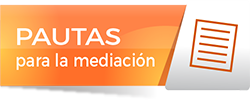
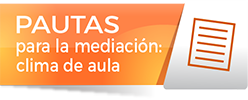
Cambios en Apoyos para el aula

diff --git a/src/Components/ApoyoClimaAula.jsx b/src/Components/ApoyoClimaAula.jsx
@@ -21,12 +21,12 @@ const ApoyoClimaAula = (props) => {
         <div id="botones-aula" className="row">
             <div className="col-6 hover11 ">
               <figure>
-                <img className="botones-portada derecha img-fluid" id="interacciones" src={images[0].ApoyoClimaAulaInteracciones } data-content= {pdfs.Tacaco }  data-typecontent ="pdf"  data-infosource={1}   onMouseOver={props.onMouseOver}  onClick={props.showModal} alt="interacciones" />
+                  <img className="botones-portada derecha img-fluid" id="pautas" src={images[0].ApoyoClimaAulaPautas } data-content= {pdfs.Tacaco }  data-typecontent ="pdf" data-infosource={1}  onMouseOver={props.onMouseOver} onMouseOut={ props.onMouseOut } onClick={props.showModal} alt="Pautas" />                
               </figure>
               </div>
             <div className="col-6 hover11 ">
                 <figure>
-              <img className="botones-portada img-fluid" id="inclusion"  src={images[0].ApoyoClimaAulaInclusion }  data-content= {pdfs.Tacaco }  data-typecontent ="pdf" data-infosource={1}  onMouseOver={props.onMouseOver} onMouseOut={ props.onMouseOut } onClick={props.showModal} alt="Inclusión" />
+              <img className="botones-portada img-fluid" id="climaEscolar"  src={images[0].ApoyoClimaAulaClimaEscolar }  data-content= {pdfs.Tacaco }  data-typecontent ="pdf" data-infosource={1}  onMouseOver={props.onMouseOver} onMouseOut={ props.onMouseOut } onClick={props.showModal} alt="Clima escolar" />
               </figure>
             </div>
 
@@ -39,22 +39,22 @@ const ApoyoClimaAula = (props) => {
             </div>
           <div className="col-6 hover11 ">
               <figure>
-            <img className="botones-portada img-fluid" id="pautas" src={images[0].ApoyoClimaAulaPautas } data-content= {pdfs.Tacaco }  data-typecontent ="pdf" data-infosource={1}  onMouseOver={props.onMouseOver} onMouseOut={ props.onMouseOut } onClick={props.showModal} alt="Pautas" />
+                <img className="botones-portada img-fluid" id="inclusion"  src={images[0].ApoyoClimaAulaInclusion }  data-content= {pdfs.Tacaco }  data-typecontent ="pdf" data-infosource={1}  onMouseOver={props.onMouseOver} onMouseOut={ props.onMouseOut } onClick={props.showModal} alt="Inclusión" />
             </figure>
           </div>
           <div className="col-6 hover11 ">
             <figure>
-              <img className="botones-portada derecha img-fluid" id="ficha" src={images[0].ApoyoClimaAulaFicha } data-content= {pdfs.Tacaco }  data-typecontent ="pdf" data-infosource={1}  onMouseOver={props.onMouseOver} onMouseOut={ props.onMouseOut } onClick={props.showModal} alt="Fichas" />
+                <img className="botones-portada derecha img-fluid" id="emociones" src={images[0].ApoyoClimaAulaEmociones } data-content= {pdfs.Tacaco }  data-typecontent ="pdf" data-infosource={1}  onMouseOver={props.onMouseOver} onMouseOut={ props.onMouseOut } onClick={props.showModal} alt="Emociones" />  
             </figure>
             </div>
           <div className="col-6 hover11">
               <figure>
-            <img className="botones-portada img-fluid" id="emociones" src={images[0].ApoyoClimaAulaEmociones } data-content= {pdfs.Tacaco }  data-typecontent ="pdf" data-infosource={1}  onMouseOver={props.onMouseOver} onMouseOut={ props.onMouseOut } onClick={props.showModal} alt="Emociones" />
+              <img className="botones-portada img-fluid" id="interculturalidad" src={images[0].ApoyoClimaAulaIntercultural } data-content= {pdfs.Tacaco }  data-typecontent ="pdf" data-infosource={1}  onMouseOver={props.onMouseOver} onMouseOut={ props.onMouseOut } onClick={props.showModal} alt="Interculturalidad" />
             </figure>
           </div>
           <div className="col-12 hover11 centro">
               <figure>
-            <img className="botones-portada img-fluid" id="interculturalidad" src={images[0].ApoyoClimaAulaIntercultural } data-content= {pdfs.Tacaco }  data-typecontent ="pdf" data-infosource={1}  onMouseOver={props.onMouseOver} onMouseOut={ props.onMouseOut } onClick={props.showModal} alt="Interculturalidad" />
+            
             </figure>
           </div>
       </div>
